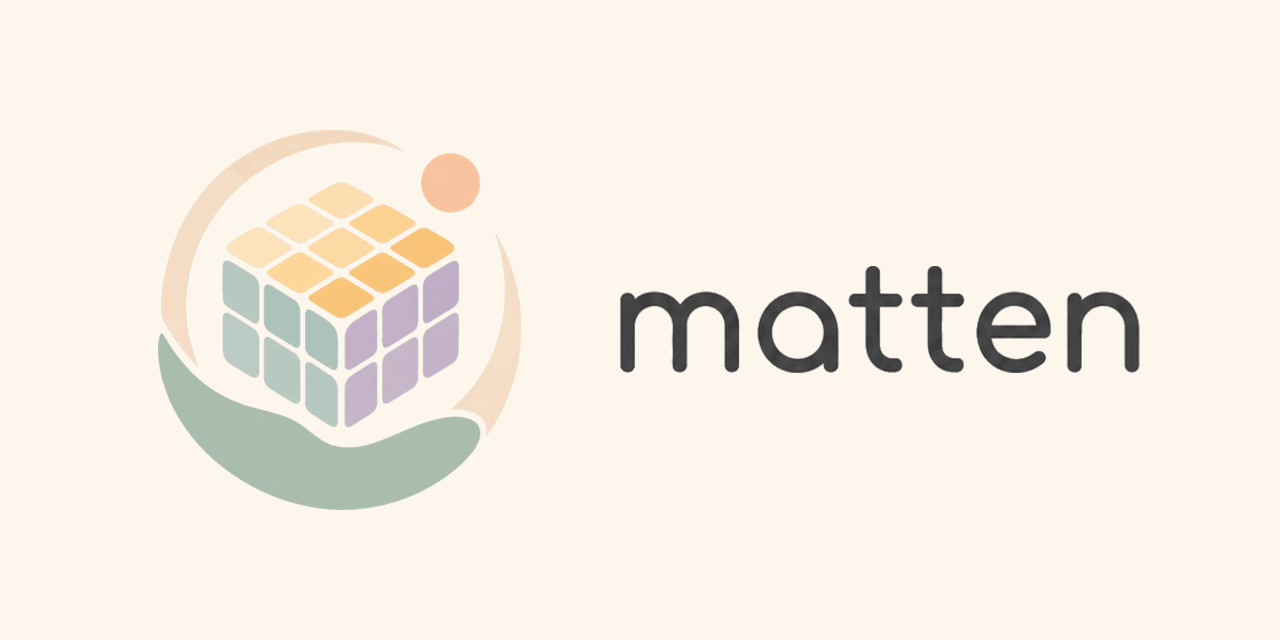
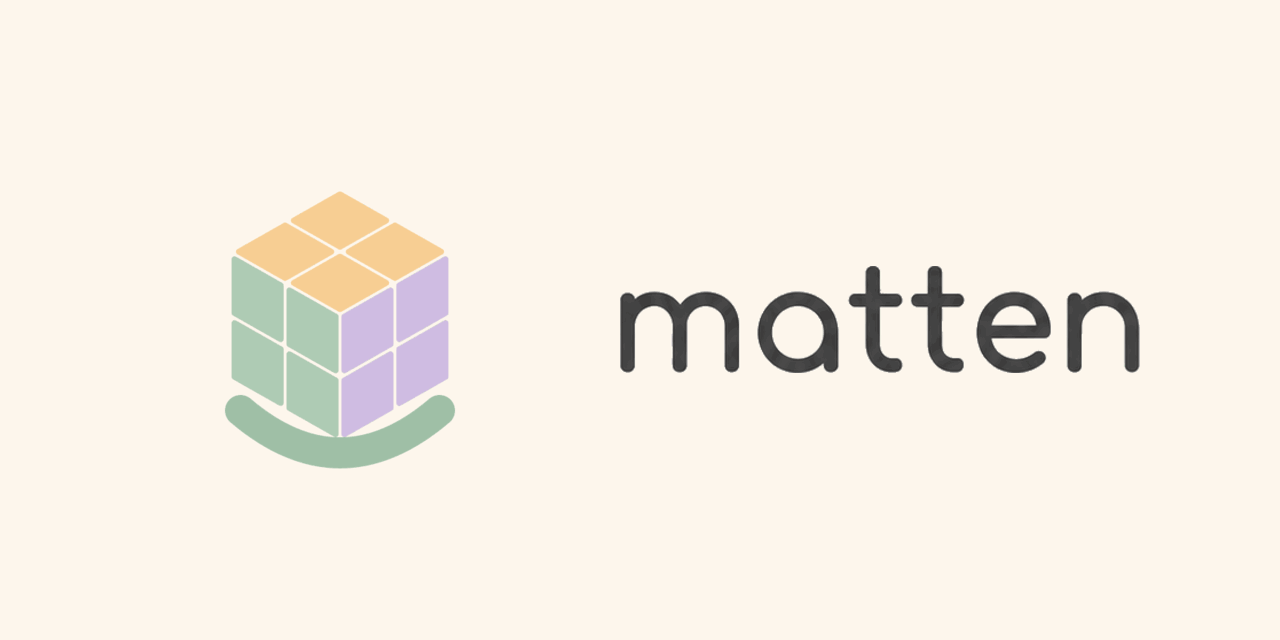
Close RFC-124: the mark is simpler and softer

Changed region(s): [[0.125, 0.1875, 0.4062, 0.8125]]

diff --git a/ROADMAP.md b/ROADMAP.md
@@ -2,7 +2,7 @@
 
 **Project:** `matten`  
 **Document Kind:** Canonical Project Roadmap  
-**Document Version:** `3.118.0`
+**Document Version:** `3.119.0`
 **Date:** 2026-08-31
 **Status:** `0.41.0` is **released, tagged, and published to crates.io** (RFC-089) — all five crates
 live at `0.41.0`, verified against the registry after publication, and the release matched the planned
@@ -1435,3 +1435,4 @@ dependency gated by a non-default feature would not appear, producing a false pa
 | 3.116.0 | 2026-08-28 | **RFC-119 implemented and closed — the first `crates/` change since `0.46.0`, and so the first release trigger since it (RFC-094 §4.3's mechanical test).** Came out of a full project audit that found **eleven items, every one of them in space nothing checks**: all nine guards, 778 tests and CI were green throughout. Four were statements *true when written* that went false when something else changed — the pattern RFC-108's E7 and RFC-105's `stats.rs:112` had already shown twice. **The one that had shipped longest was executable**: `21_matrix_vector_product` multiplied a `[2]` vector by a `[3,2]` transpose, violating the rule its own comment stated, and panicked — in **83 releases since `0.17.0`**, inside the packaged crate, invisible because `cargo check --examples` proves compilation and nothing proved execution. **20 of 78 examples had never been run**, including the entire beginner path; now 76 of 78, the two exceptions documented in their own headers rather than left silent. `tools/matten-playground` had **43 tests no workflow ran** and no clippy step; both added. The published prose: the crate-root doc — docs.rs's landing page — had called dynamic slicing *guarded until a future CoW-view milestone* since RFC-102 shipped it in `0.44.0` **using that very CoW view**, and two READMEs still denied RFC-111's zero-sized dimensions, missed because RFC-111 correctly updated the README of the crate whose *code* it changed while **a claim about that crate's behaviour lived in two others**. **Review required one correction, and it was the same defect class again**: the first `stats.rs` fix asserted z-score was *"unimplemented anywhere in the family"* when it ships as `matten-mlprep::standardize_columns`, which `matten-stats`'s own README states — rewriting a deferral into an inventory turns a safe statement into a checkable one, and the check must cover the whole family. **Two of the reviewer's figures were wrong and the implementer corrected both** — six `docs/src/` pages in `2ac99bb`, not eight; six functions named in the sentence, not four — the third time this month the implementer's method beat the one specified. **What none of this fixes** is the cause: the guards are all structural and **not one can detect a prose claim going false**. No version bump, tag, or publish — RFC-121 owns the release, and RFC-120 (proposed) the policy gap that routes a published-documentation correction into a minor release a month late. |
 | 3.117.0 | 2026-08-28 | **RFC-120 implemented and closed — RFC-094 amended so a published-documentation correction is a patch, not a minor a month later.** The gap was found while scheduling RFC-119's fixes and is worth recording precisely, because it was **not a stale or wrong statement**: §4.1 was accurate when written and still is. It was *silent* on published documentation, because when RFC-094 was drafted the working model was *docs = the book = does not ship*. A false claim in published rustdoc or a packaged README was therefore neither "code" under §4.1 nor excluded by §4.3 — which excludes only documentation *that does not reach crates.io* — and §4.2, which defines triggers and, unlike §4.1, **never carried a contents clause at all**, caught it on the 28-day anti-rot floor. Three clauses presented as exhaustive were not, and the literal reading routed a one-line correction into a *minor* release. Both of RFC-094's own mechanisms already disagreed with its prose: §4.3's `cargo package --list` test — the same test that declined `0.42.1` — puts `crates/matten-stats/README.md` inside a published package and the root `README.md` in zero, and §4.1's stated rationale (*"a user hitting a wrong answer should not wait"*) fits a reader of a false capability claim exactly. **Amended by blockquote per RFC-095's precedent**, each quoting the original verbatim: 31 insertions, **0 removals**, so nothing was rewritten in place — the anti-pattern RFC-000 exists to prevent, applied to content rather than status. §4.3, the three triggers and the 28-day judgement are untouched. **What it does not fix**, stated in its own §12: a policy is read only when consulted. This makes the right answer findable, not automatic — the same admission RFC-118 §9 made about the checklist. No version bump, tag, or publish. |
 | 3.118.0 | 2026-08-31 | **RFC-122 implemented and closed — the project has a logo, on every surface that needs no release.** Split execution: the assets and the small mark by the high-capability model, the placement by the implementer. **The candidate art failed below 64px** — legible at 128, mush at 32, unidentifiable at 16 — and the cause was structural, not resolution: 27 facelets separated by thin near-white gaps cannot survive a 32px grid. The small mark was therefore hand-authored as SVG rather than exported, with the gaps widened and the three face colours' saturation deliberately raised until 3×3 held at **16px**, verified by rendering at four sizes and looking. Sampling the candidate had shown why: two of the three faces measured near-white (`FDDDAE`, `D0D9D0`) and would have merged at favicon size. **Two decisions were the owner's and both are recorded with reasons** — the *"Math • Tensor • Rust"* tagline is dropped, because the name is in fact a Japanese dialect phrase and the backronym is a coincidence the owner enjoys but does not wish to assert; and the 3×3 cube stays, the Rubik's-resemblance concern having been raised at review and **withdrawn on the owner's challenge** as unsupported — a 3×3×3 cube is the canonical picture of a rank-3 tensor, the cube is drawn *solved* and *held*, and trademark is class-specific. **Two implementation findings changed the design**: removing the white surround also lifted the cream plate, so one transparent file works on both themes and reads better on dark, making the `<picture>` pair and its dark variant unnecessary; and the assets total **153 KB against the candidates' 2.3 MB**, which matters because RFC-116 had the repository-weight conversation once already. Review required one correction: the alt text *described the artwork*, which is the wrong kind of alt text for a logo and, more to the point, **a statement that goes false the moment the logo changes** — the same defect class the audit had just found four of, reintroduced by a reviewer instruction. Now `alt="matten"`. `assets/` reaches **zero** of the five published packages, asserted per crate. No version bump, tag, or publish; docs.rs waits for `0.47.0`. |
+| 3.119.0 | 2026-08-31 | **RFC-124 implemented and closed — the mark is replaced, three days after it shipped.** The owner's judgement was that the RFC-122 mark read *"too complicated and intimidating"* against a stated goal of a family-like atmosphere. **The supporting evidence had been in hand and filed under the wrong heading**: RFC-122's E5 measured that mark failing below 64px — mush at 32, unidentifiable at 16 — and identified 27 facelets as the cause. That was treated as a *rendering* problem, to be solved by authoring a second simplified mark for small sizes. It was equally a *design* signal, because the density that defeats a 32px grid is the density that reads as complicated at any size. The reviewer's earlier semantic concern — that a subdivided cube reads as a puzzle, against a library calling itself a family car — had been raised, challenged, and withdrawn wholesale; **the trademark half was correctly withdrawn and stays withdrawn, the semantic half was under-weighted.** The replacement is a **2×2×2 cube in a cradle**: `[2,2,2]` is not a simplified cube but the smallest non-trivial rank-3 tensor, the first shape in which all three axes exist, so the gentler drawing is also the more canonical one. A plain undivided cube was prototyped and rejected — softer still, but it stops meaning *array*. One SVG is now the source of truth at every size, retiring the two-mark split RFC-122 created to work around a mark that could not survive 32px. **The change cost five asset files and not one line of markup**, because every filename was kept identical, so RFC-122's README hero, favicon wiring and `book.toml` all continued working untouched. **RFC-122's review correction paid for itself within three days**: it had required the hero's `alt` change from a description of the artwork to `alt="matten"`, on the argument that a description goes false when the artwork changes — and the artwork changed. Had it not been corrected, this RFC would have been fixing a false statement in the README as well. No `crates/` change, so no release; docs.rs still waits for `0.47.0`, and now receives the better mark on its first appearance rather than one needing replacement. |

diff --git a/rfcs/README.md b/rfcs/README.md
@@ -139,6 +139,7 @@ The broader documentation ownership model is recorded in
 | 119 | [Corrections to the Published Surface](./done/119-published-surface-corrections.md) | **Unreleased** — the first `crates/` change since `0.46.0`. Fixes a panicking example shipped in **83 releases since `0.17.0`** (`examples/` is packaged, so it was inside the crate users download), plus three false published statements: the crate-root doc had called dynamic slicing *guarded* since RFC-102 shipped it in `0.44.0` **using the very CoW view it deferred to**, and two READMEs still denied the zero-sized dimensions RFC-111 accepted. Closes the gap that hid the panic — `cargo check --examples` proves compilation, nothing proved execution, leaving **20 of 78 examples never run**; now 76 of 78, the two exclusions documented in their own headers. `tools/matten-playground` gains its first `cargo test`/`clippy` CI step, 43 tests that no workflow had ever run. **Review required one correction of the same class the RFC exists to remove**: the first fix to `stats.rs` asserted z-score was *"unimplemented anywhere in the family"* when it ships as `matten-mlprep::standardize_columns` — a claim about one crate's capability, wrong, inside another crate's docs. Two of the reviewer's own figures were corrected by the implementer (six `docs/src/` pages in `2ac99bb`, not eight; the sentence named six functions, not four) |
 | 120 | [Patch Releases Cover Published Documentation](./done/120-patches-cover-published-documentation.md) | No release — amends one RFC document. RFC-094 §4.1 defined a patch as *"correctness fixes to already-published crate **code**"* and §4.3 excluded only documentation *"that does not reach crates.io"*, so a false statement in published rustdoc or a packaged README fell through **both**, and §4.2 — which defined triggers and, unlike §4.1, carried no contents clause at all — caught it on the 28-day floor. The literal policy therefore routed a one-line correction into a **minor release a month later**. Both of the policy's own mechanisms already pointed the other way: §4.3's `cargo package --list` test (the one that declined `0.42.1`) puts those files inside published packages, and §4.1's rationale — *"a user hitting a wrong answer should not wait"* — describes a reader of a false capability claim exactly. Amended by blockquote per RFC-095's precedent, originals quoted verbatim, **31 insertions and 0 removals**; §4.3, the triggers and the 28-day figure untouched |
 | 122 | [Project Logo — Assets and the Unpublished Surfaces](./done/122-project-logo.md) | No release — no `crates/` path touched; the docs.rs `html_logo_url` is **ineligible for a patch** under RFC-094 §4.1 as amended by RFC-120 (a logo is not a correctness fix) and waits for `0.47.0`. Split execution: assets by the high-capability model, placement by the implementer. **The candidate art failed below 64px** — mush at 32, unidentifiable at 16 — so the small mark was hand-authored as SVG with widened gaps and raised saturation until 3×3 held at **16px**; sampling showed two of the three face colours were near-white and would have merged. Removing the white surround also lifted the cream plate, making a dark variant unnecessary — one transparent file reads better on dark than light — so the RFC's `<picture>` instruction was **amended after implementation**. Assets total 153 KB against the candidates' 2.3 MB. Review required one correction: the alt text described the artwork, which is both the wrong kind of alt text for a logo and **a statement that goes false when the logo changes** — the defect class the audit had just found four of. Now `alt="matten"` |
+| 124 | [A Simpler, Softer Mark](./done/124-simpler-softer-logo.md) | No release — five asset files, **no markup change at all**, because every filename stayed identical and RFC-122's placement kept working untouched. Replaces the 3×3×3 cube-in-a-palm with a **2×2×2 cube in a cradle** on the owner's judgement that the mark read *too complicated and intimidating* against a family positioning. The evidence had been sitting in RFC-122's own E5, which measured the mark failing below 64px and named 27 facelets as the cause — read at the time as a rendering problem needing a second simplified mark, when it was equally a design signal: the density that defeats a 32px grid is the density that reads as complicated at any size. `[2,2,2]` is not a watered-down cube but the **smallest non-trivial rank-3 tensor**; a plain undivided cube was tried and rejected for ceasing to mean *array*. One SVG is now the source of truth for every size, retiring RFC-122's two-mark split. **RFC-122's `alt` correction paid for itself three days later** — had the hero still described the artwork, this change would have made the README false |
 
 ## Accepted
 
@@ -150,7 +151,6 @@ sign-off and implementation — not that the state is unused.
 |---:|---|---|
 | 121 | [`0.46.1` — The Published-Surface Patch](./accepted/121-0461-published-surface-patch.md) | [`121-…-handoff.md`](./handoffs/121-0461-published-surface-patch-handoff.md) |
 | 123 | [Move the Per-Crate Badges into the Crate Table](./accepted/123-crate-table-badges.md) | [`123-…-handoff.md`](./handoffs/123-crate-table-badges-handoff.md) — **blocked until `0.46.1` ships** |
-| 124 | [A Simpler, Softer Mark](./accepted/124-simpler-softer-logo.md) | — *(asset production; none)* |
 
 ## Archive
 

diff --git a/rfcs/done/124-simpler-softer-logo.md b/rfcs/done/124-simpler-softer-logo.md
@@ -1,8 +1,9 @@
 # RFC-124: A Simpler, Softer Mark
 
-**Status:** **Accepted** 2026-08-28 by the owner. Performed by the high-capability model — asset
-production and mechanical regeneration, **no Developer Handoff** (see `accepted/README.md`).
-No version, no tag, no publish.
+**Status:** **Implemented** 2026-08-31. Five asset files replaced, **every filename unchanged**, so
+no markup edit was needed — `README.md` and `docs/book.toml` have empty diffs. mdBook's emitted
+favicon hashes changed (`72702a55`/`e1714371` → `905a5a24`/`c7cc3629`), verified against the built
+HTML. Asset production, so no Developer Handoff. No version, no tag, no publish.
 **Target:** `assets/`, `docs/theme/`
 **Theme:** Replace the mark with one that matches the positioning it is meant to carry
 **Related:** RFC-122 (the mark being replaced), RFC-094 §4.3 (no release), RFC-121 / RFC-123
